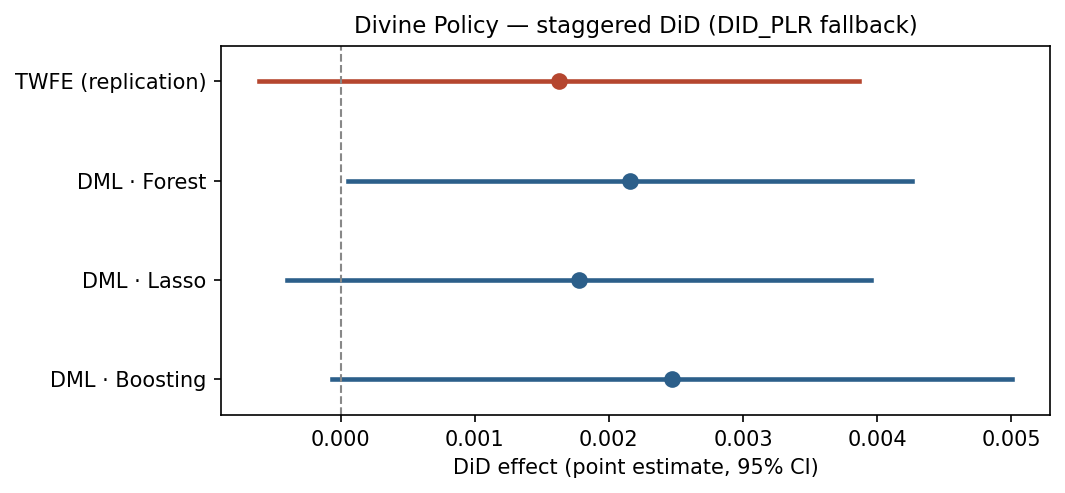
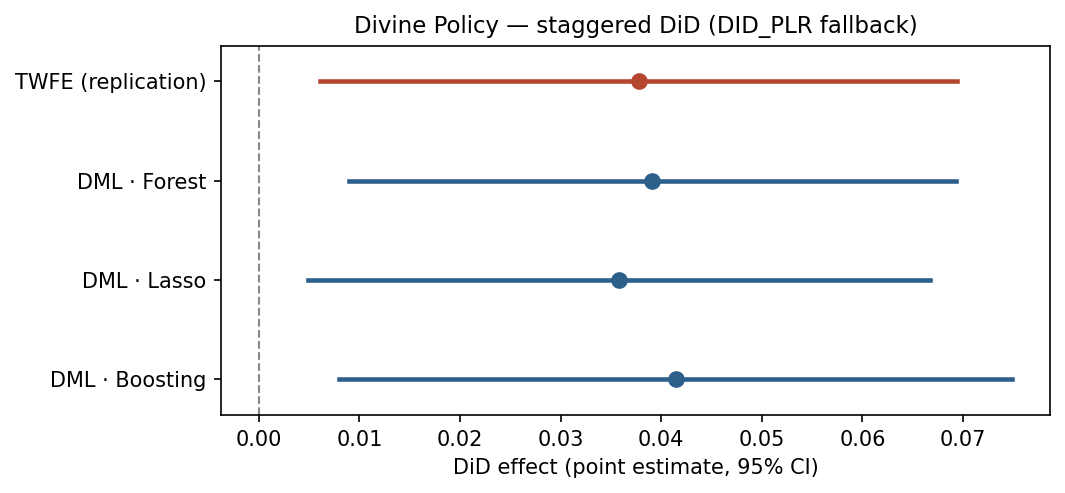
Fix Divine Policy replication framing + re-run on the paper's own outcome
Correct the inaccurate 'paywalled' (the manuscript IS in the package; the real restriction is GSS microdata not shipped). Re-run on the COUNT of faith-based nonprofits (NCCS-religious OR religious name), matching the paper's outcome: TWFE +0.038 (t=2.3), DML +0.036-0.041, all significant; benchmarked DIRECTIONALLY against the paper's reported +2,258-org increase (4/4 consistent). Regenerated artifacts + website.

diff --git a/tools/build_pages.py b/tools/build_pages.py
@@ -118,28 +118,33 @@ PAPERS = {
     },
     "divine_policy_2025": {
         "method": "DID → DID_PLR", "topic": "Religion & Policy (DiD)", "regime": "stochastic",
-        "desc": "staggered binary DiD: faith-based-initiative adoption on religious-nonprofit prevalence",
+        "desc": "staggered binary DiD: faith-based-initiative adoption on the count of faith-based nonprofits",
         "verdict": "Extension demo",
-        "headline": "A staggered BINARY DiD that stress-tested the pipeline. DoubleMLDIDMulti "
-        "(Callaway–Sant'Anna) is infeasible on a 50-state panel, so the pipeline gracefully fell "
-        "back to the DML two-way-FE estimator (loudly flagged). The effect on religious-nonprofit "
-        "share is positive but underpowered: TWFE +0.0016 (t=1.4); DML +0.0018–0.0025, "
-        "significant for one of three learners.",
-        "added": "This run is valuable precisely because it found a limit. The design is "
-        "staggered adoption of state faith-based initiatives, so the router routes it to "
-        "DoubleMLDIDMulti. But with only 50 states (6 never-treated, several single-state "
-        "cohorts) the Callaway–Sant'Anna ML estimator hits empty per-(g,t) nuisance cells and "
-        "cannot be fit. Rather than crash, the pipeline falls back to the DML two-way-FE "
-        "estimator on a treated × post indicator and labels it loudly — because TWFE under "
-        "staggered heterogeneity is exactly what Callaway–Sant'Anna exists to correct. The "
-        "estimate is directionally consistent with the paper (faith-based initiatives → more "
-        "faith-based nonprofits) but small and significant for only one learner at this sample "
-        "size. The paper's headline GSS attitudes outcome lives in restricted files not shipped "
-        "in the package, so this recast targets the religious-nonprofit outcome that is included.",
-        "did_fig_cap": "Staggered DiD: TWFE replication vs the DML extension (DoubleMLDIDMulti infeasible at 50 states → DID_PLR fallback) across learners (95% CIs).",
+        "headline": "A staggered binary DiD on the paper's own outcome — the count of "
+        "faith-based nonprofits. DoubleMLDIDMulti (Callaway–Sant'Anna) is infeasible on a "
+        "50-state panel, so the pipeline gracefully falls back to the DML two-way-FE estimator "
+        "(loudly flagged). The effect is positive and significant — TWFE +0.038 (t=2.3); DML "
+        "+0.036–0.041, significant across all three learners — directionally consistent with "
+        "the paper's reported increase (+2,258 faith-based organizations).",
+        "added": "The design is the staggered adoption of state faith-based initiatives, so the "
+        "router sends it to DoubleMLDIDMulti. But with only 50 states (6 never-treated, several "
+        "single-state cohorts) the Callaway–Sant'Anna ML estimator hits empty per-(g,t) nuisance "
+        "cells and cannot be fit — so the pipeline falls back to the DML two-way-FE estimator on "
+        "a treated × post indicator and labels it loudly, because TWFE under staggered "
+        "heterogeneity is exactly what Callaway–Sant'Anna exists to correct. The outcome is the "
+        "log count of faith-based nonprofits, using the paper's own definition (categorized "
+        "religious by the NCCS or carrying religious terms in the name); the effect is positive "
+        "and significant (~+3.8%), directionally consistent with the paper's stacked-event-study "
+        "finding (a significant rise of about 2,258 faith-based organizations). The comparison is "
+        "directional, not a numeric match: the paper uses a stacked event-study and we run a "
+        "simplified static DiD on a Python-reconstructed panel (no Stata). The paper's headline "
+        "religiosity/attitudes outcomes use GSS microdata that is restricted and not shipped in "
+        "the package, so they are out of scope here.",
+        "did_fig_cap": "Staggered DiD on the count of faith-based nonprofits: TWFE replication vs the DML extension (DoubleMLDIDMulti infeasible at 50 states → DID_PLR fallback) across learners (95% CIs).",
         "downloads_note": "state×year panel reconstructed in Python from the openICPSR raw files "
         "(Sager faith-based-law timing + the 14.4M-row NCCS nonprofit panel) by the project's "
-        "`build_project.py`; the GSS attitudes outcome is restricted and not included.",
+        "`build_project.py`; the manuscript IS in the package, but the headline GSS attitudes "
+        "outcome uses restricted microdata that is not.",
     },
 }
 

diff --git a/papers/divine_policy_2025/estimand_statement.md b/papers/divine_policy_2025/estimand_statement.md
@@ -1,4 +1,5 @@
-- **Design:** staggered difference-in-differences (panel). Treatment = a state's first faith-based-initiative law (Sager); outcome = religious share of nonprofits (NCCS), state x year.
-- **Model (router rule 2.1-8a):** `DID` -> DoubleMLDIDMulti (Callaway & Sant'Anna). At this sample size (50 states, 6 never-treated, tiny cohorts) DoubleMLDIDMulti is **infeasible** (empty per-(g,t) nuisance cells), so the pipeline falls back to the DML two-way-FE estimator (`DID_PLR`) on a treated x post indicator. **Caveat:** TWFE under staggered timing + heterogeneity is exactly what CS2021 corrects, so the fallback estimate is an approximate average ATT, not the CS group-time estimate.
-- **Estimand:** the FE-adjusted average effect of having adopted a faith-based-initiative law on the religious share of nonprofits; county/state and year effects absorbed, covariates partialled out by ML, SE clustered by state.
-- **Data caveat:** the paper's headline GSS attitudes outcome is in restricted files not shipped in the openICPSR package; this recast targets the available religious-nonprofit (NCCS) mechanism outcome. No Stata available, so the panel is reconstructed in Python from the included raw files; the published table value is not reproduced exactly (documented PARTIAL).
+- **Design:** staggered difference-in-differences (panel). Treatment = a state's first faith-based-initiative law (Sager); outcome = the **log count of faith-based nonprofits** (categorized religious by the NCCS OR religious terms in the name), state x year — matching the paper's own 'number of faith-based organizations' outcome.
+- **Model (router rule 2.1-8a):** `DID` -> DoubleMLDIDMulti (Callaway & Sant'Anna). At this sample size (50 states, 6 never-treated, tiny cohorts) DoubleMLDIDMulti is **infeasible** (empty per-(g,t) nuisance cells), so the pipeline falls back to the DML two-way-FE estimator (`DID_PLR`) on a treated x post indicator. **Caveat:** TWFE under staggered timing + heterogeneity is what CS2021 corrects, so the fallback is an approximate average ATT, not the CS group-time estimate.
+- **Estimand:** the FE-adjusted average effect of having adopted a faith-based-initiative law on the log number of faith-based nonprofits; state and year effects absorbed, total-NPO size partialled out, SE clustered by state.
+- **Benchmark (the manuscript IS in the package, not paywalled):** the paper reports a significant positive effect on faith-based nonprofits (back-of-envelope **+2,258 organizations**, manuscript p.4) via a stacked event-study. Our static DiD is compared to it **directionally** (sign + significance), not as a numeric match.
+- **What is NOT reproduced (hence a documented PARTIAL):** the paper's headline religiosity / conservative-attitudes results use **GSS microdata** (GSS7218_R3.dta, cross7218_geo.dta) that is **restricted and not shipped** in the openICPSR package; and the original stacked build is in Stata (unavailable here), so the state x year panel is reconstructed in Python from the included raw files.